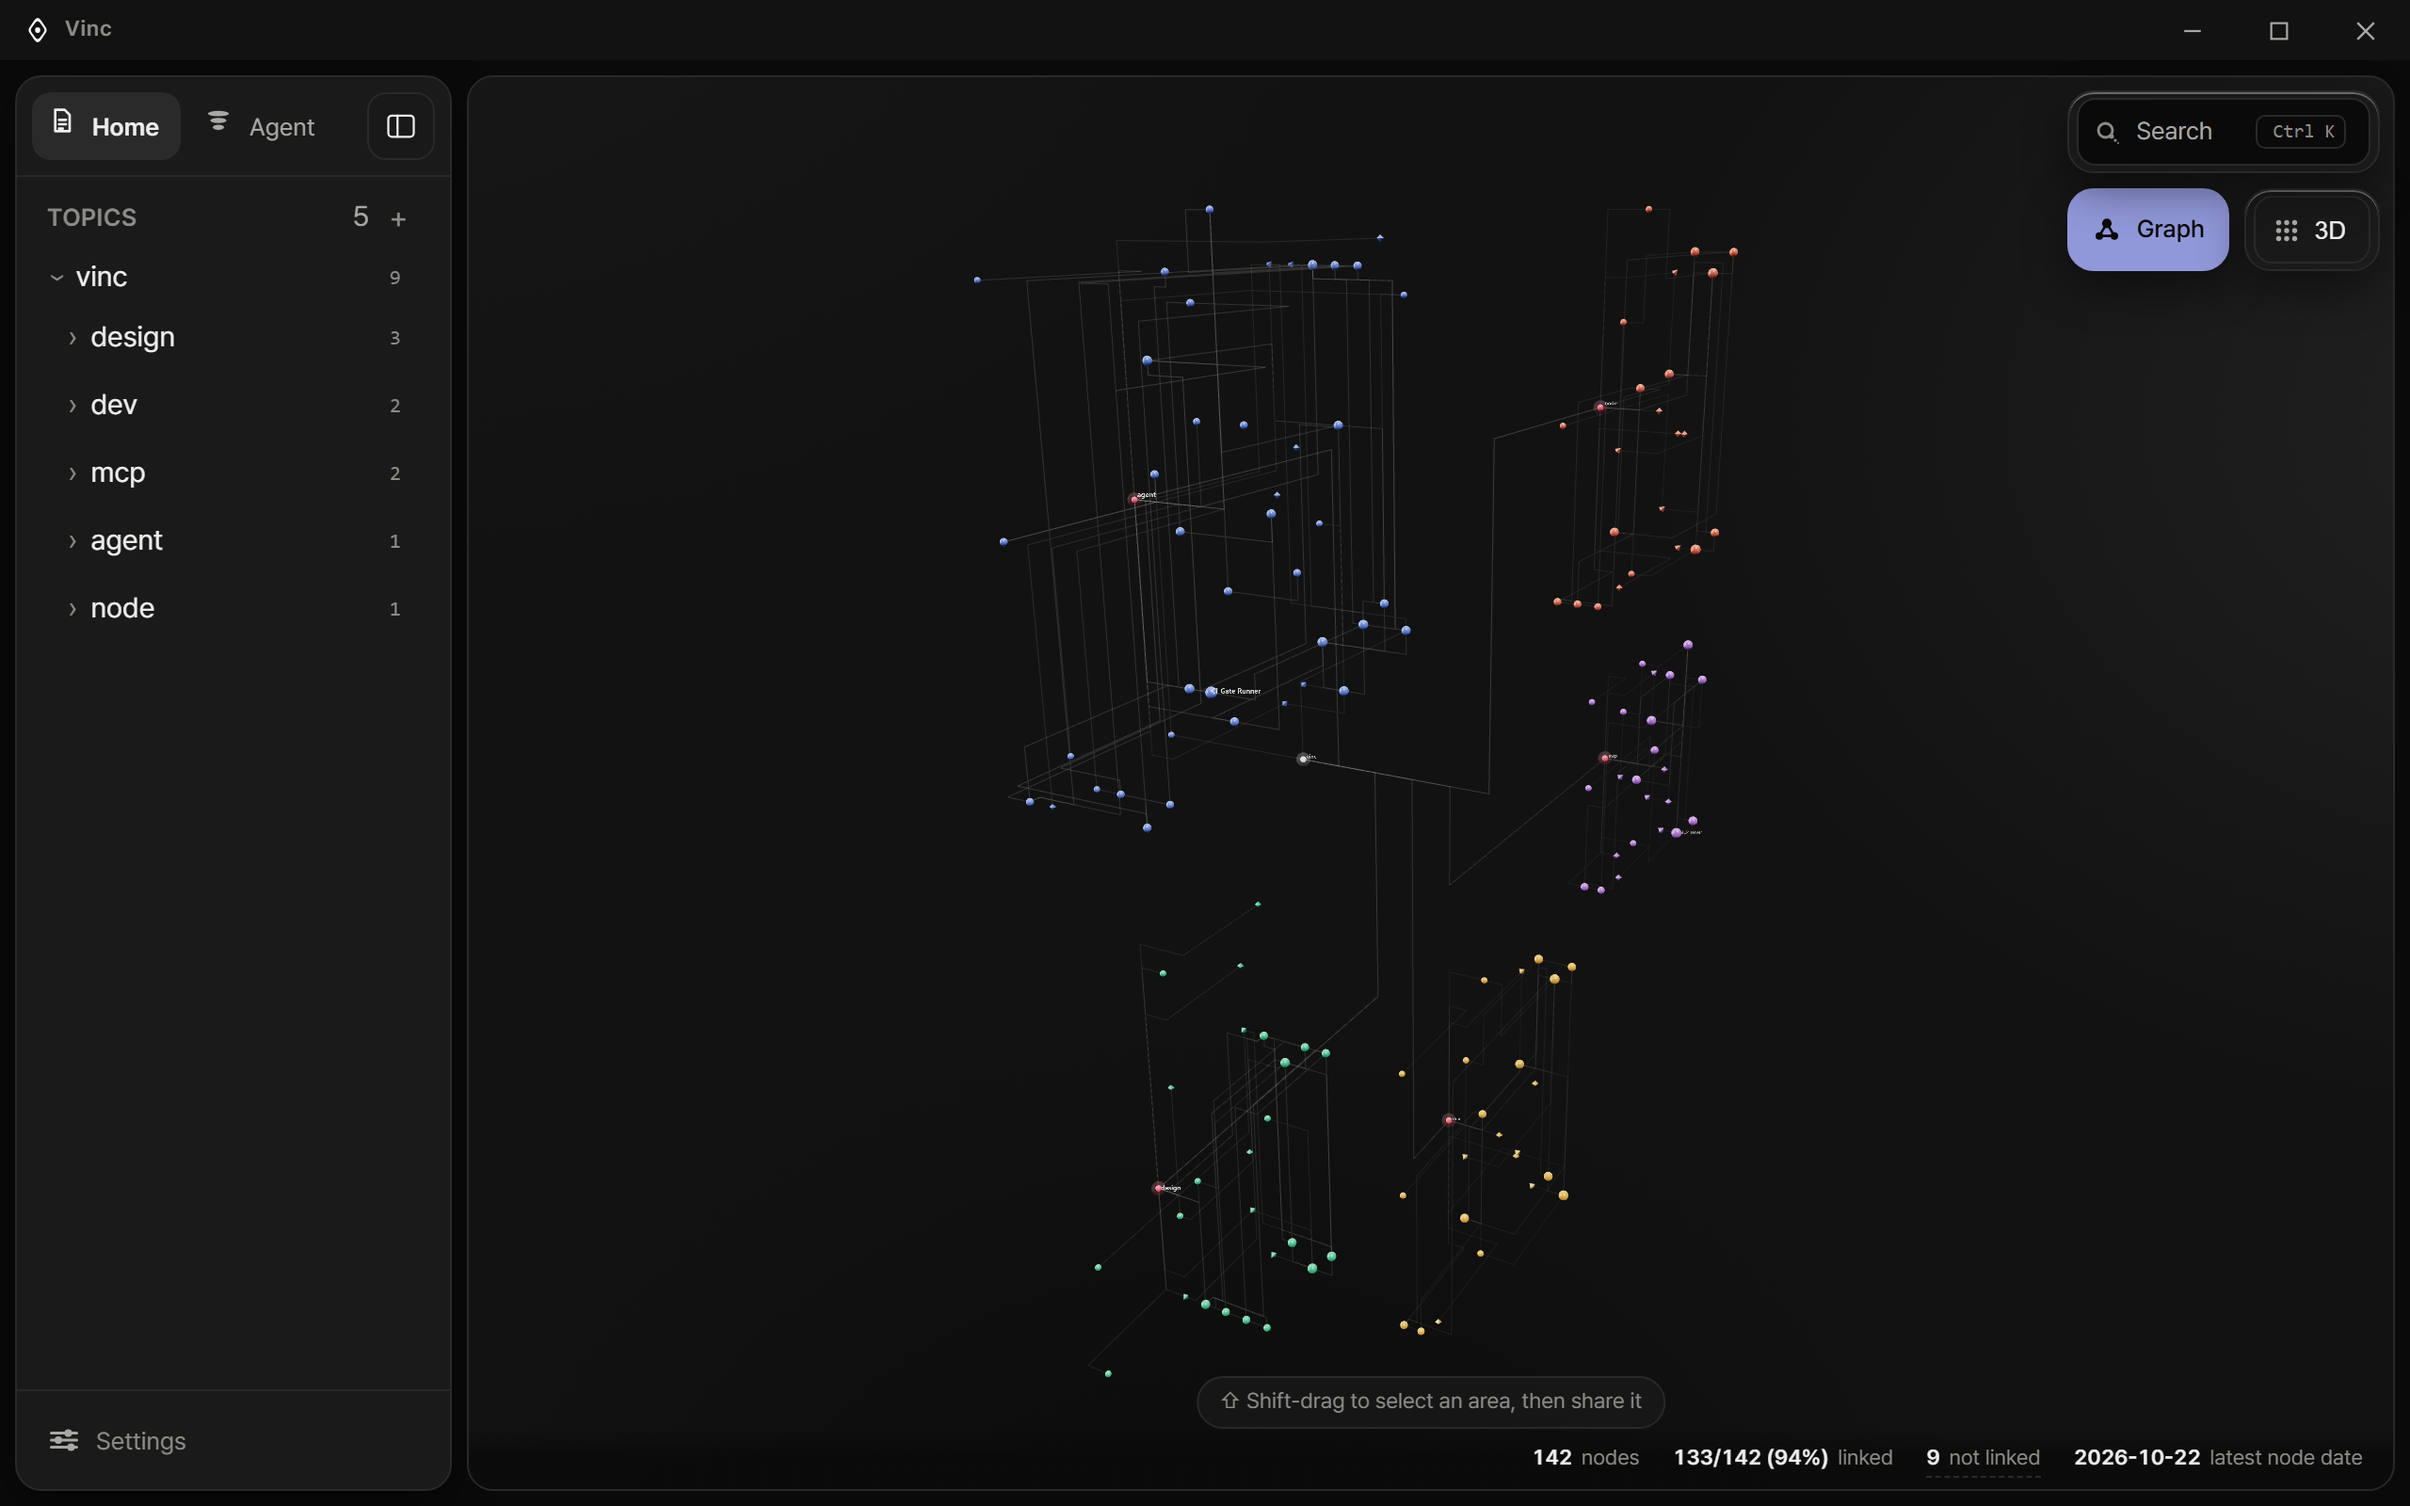
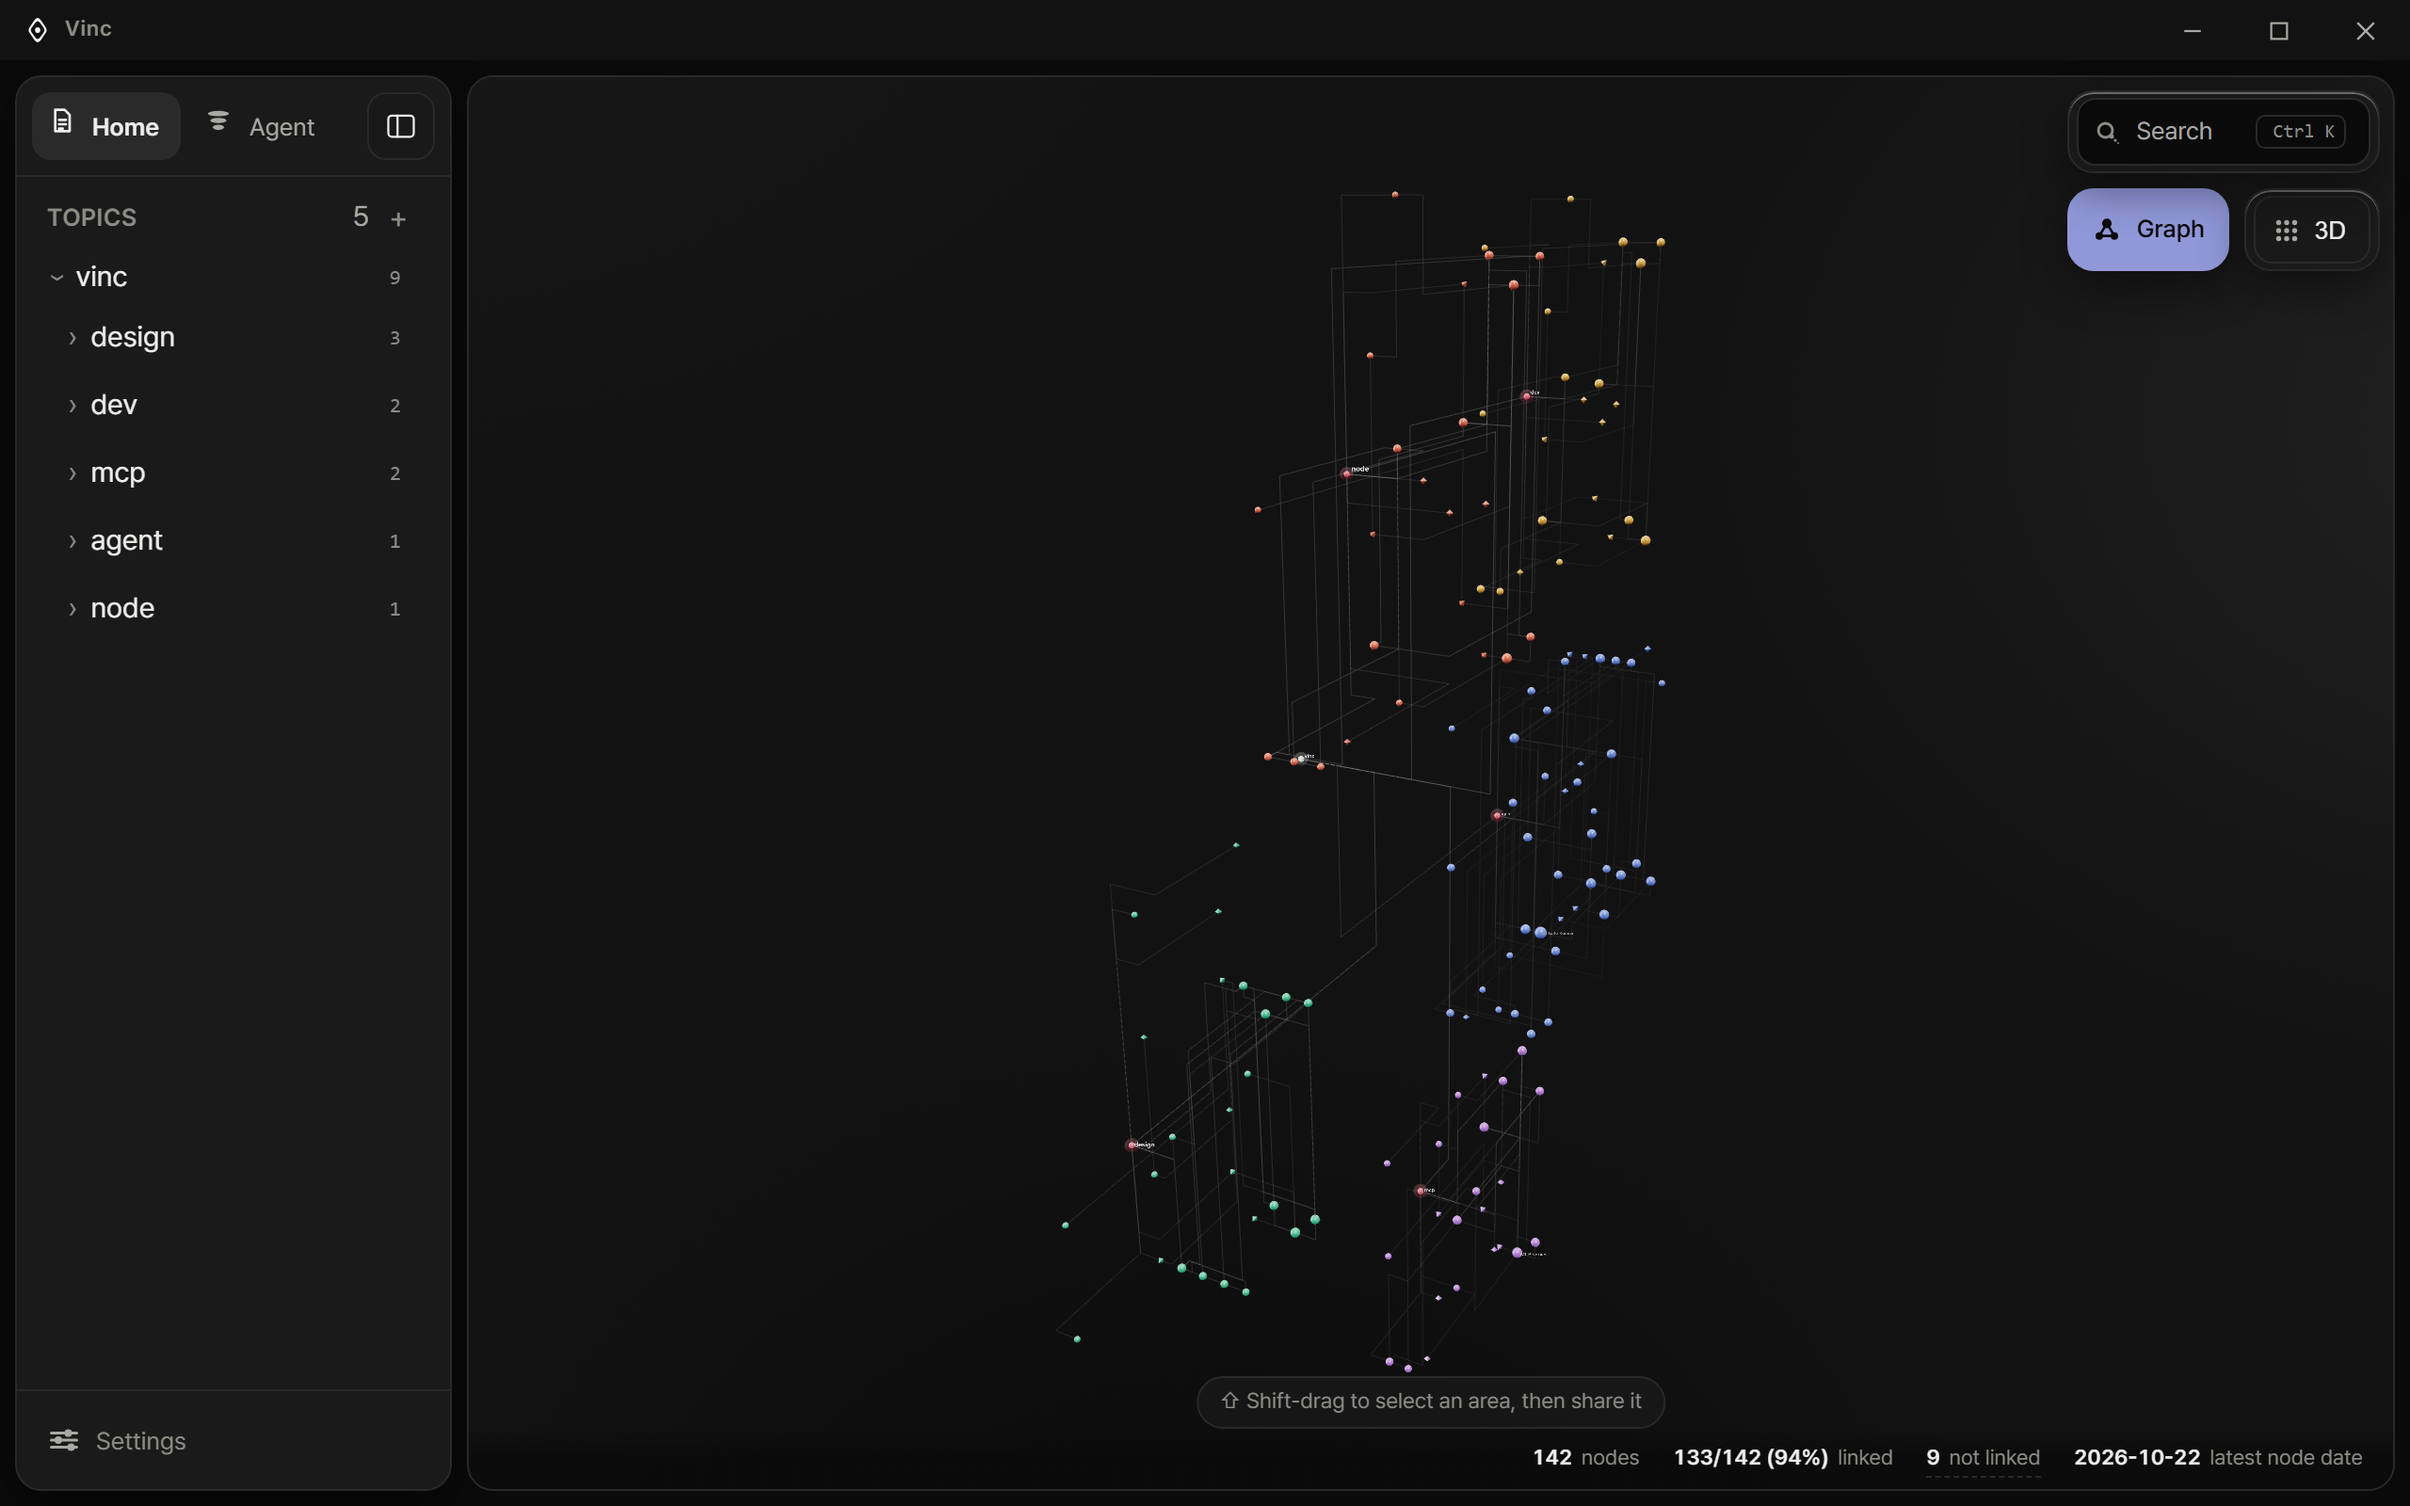
docs(readme): 3d topics fill the space around the main topic (#11)

diff --git a/README.md b/README.md
@@ -108,7 +108,7 @@ From there the assistant can walk one hop at a time with `vinc_neighbors`, trace
 | Capability | What you get |
 |---|---|
 | **Documents first** | The first screen is a document home: every document, newest first, narrowed by topic or title, read and written in place. The sidebar holds Home, Agent and your topics with their documents, and folds to a strip of icons. |
-| **View, four viewpoints** | 3D, 2D, Timeline and Weave over the same graph, opened with the **Graph** button. It opens as time branches in 3D: each Topic grows one arm with its items left to right by date, and the topics wind around the main one. You can switch to **by centre** in the view card. Nodes are glass, each topic wears its own jewel colour, and shape tells the kind. A time cursor limits View to what existed at a date, and Flow plays it forward. The Timeline takes a period: the last 7, 30 or 90 days, this year, or dates you pick. |
+| **View, four viewpoints** | 3D, 2D, Timeline and Weave over the same graph, opened with the **Graph** button. It opens as time branches in 3D: each Topic grows one arm with its items left to right by date, and the other topics fill the space around the main one. You can switch to **by centre** in the view card. Nodes are glass, each topic wears its own jewel colour, and shape tells the kind. A time cursor limits View to what existed at a date, and Flow plays it forward. The Timeline takes a period: the last 7, 30 or 90 days, this year, or dates you pick. |
 | **Find and Ask** | Find looks up names and keywords (and ranks by meaning on the account graph). **Search inside documents**, under the Find results, reads the text of your documents and shows the passage that matched. Korean is indexed two characters at a time, so a word is found even with a particle attached. Ask answers *What is X* and *Sources for X* by quoting your documents. |
 | **Node detail** | For any node: its topic, links out and in, the documents behind it, and its properties. Edit properties in place as text, list, number, yes or no, or JSON. If the node changed after you started editing, Vinc does not save over it. |
 | **Add knowledge** | Drag in `.md`, `.txt`, `.rst` or `.pdf`, or start a new document or node where you are: **New document** and **Import files** on the document home, the tree, the palette, a shortcut or a right-click. Type `[[` to link a node, and in View hold Alt (Option on a Mac) and drag from one node to another to connect them. Import says where the files go (this device, your account or a team space) and which documents it adds, refreshes or leaves as they are. |
@@ -125,7 +125,7 @@ From there the assistant can walk one hop at a time with `vinc_neighbors`, trace
     <td width="50%"><img alt="The demo graph in 2D time branches" src="docs/images/view-2d.png"></td>
   </tr>
   <tr>
-    <td><em>3D: each topic grows an arm along time, earlier on the left, and the topics wind around the main one.</em></td>
+    <td><em>3D: each topic grows an arm along time, earlier on the left, and the other topics fill the space around it.</em></td>
     <td><em>2D: the same branches, flat. Each topic box reads left to right by date.</em></td>
   </tr>
   <tr>
